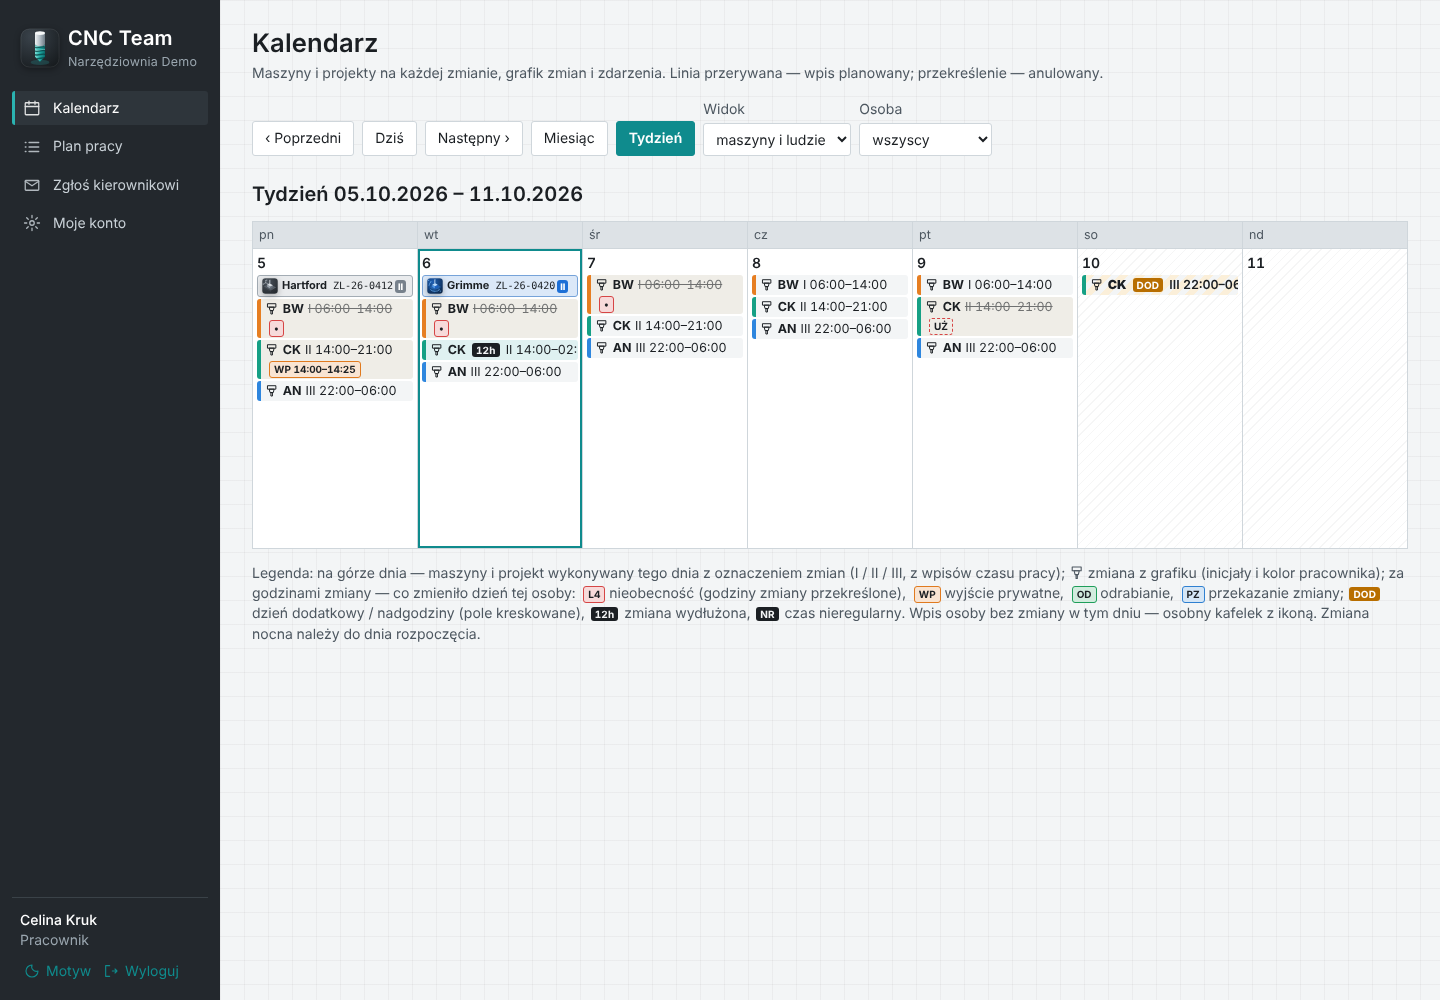
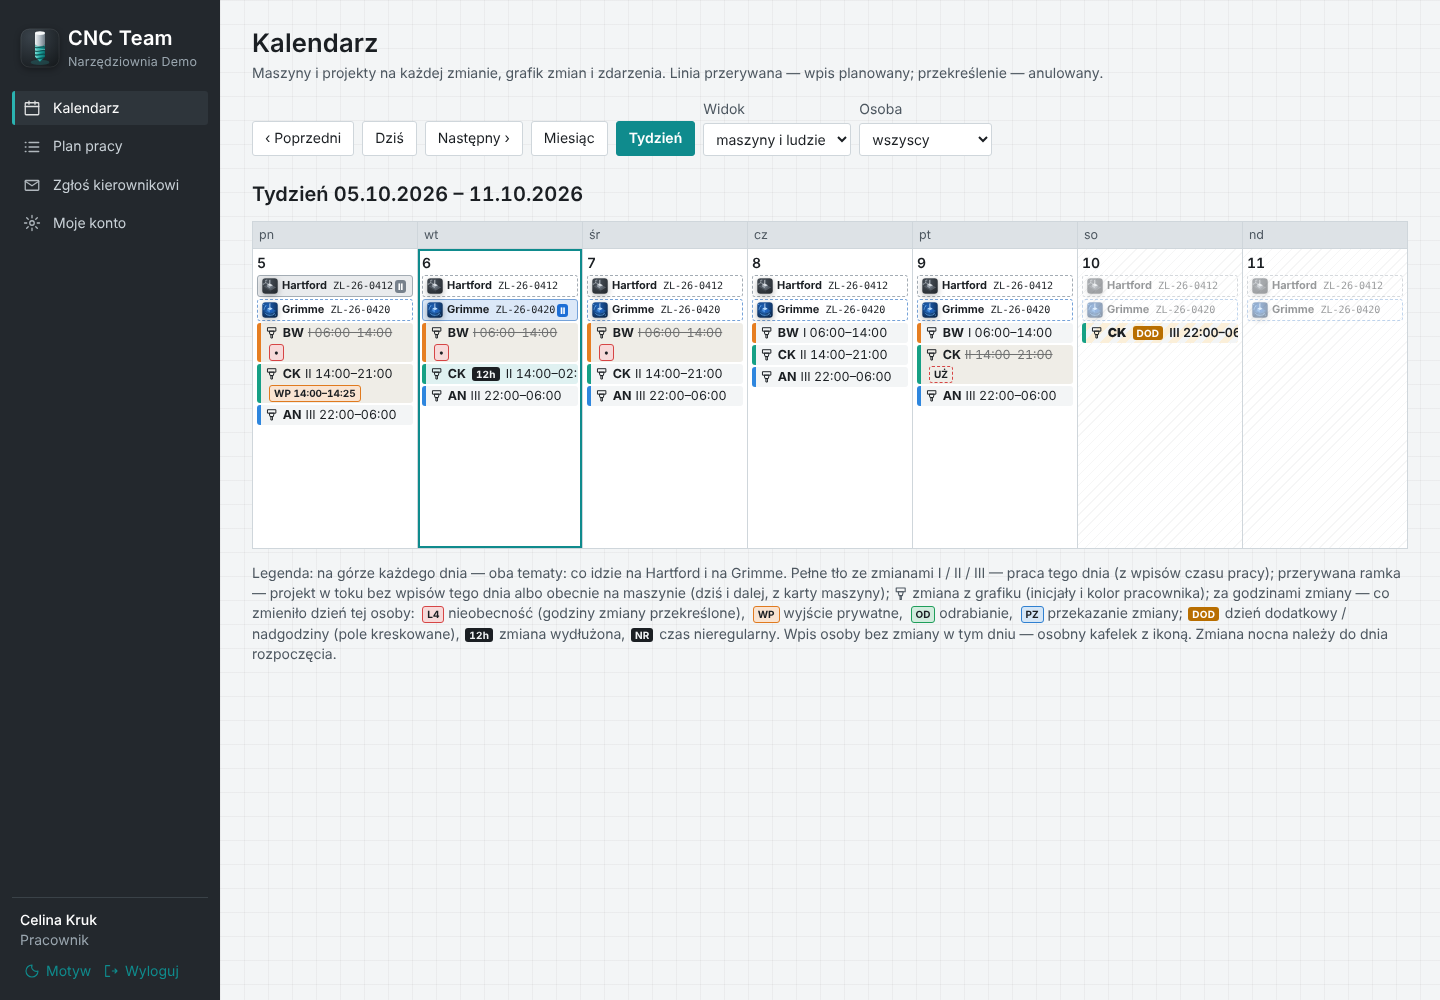
Kalendarz: w każdym dniu oba tematy — co idzie na Hartford i Grimme (praca ze zmianami / w toku / obecnie)
Claude-Session: https://claude.ai/code/session_01Mgo9RDb6yKEqWF3PSmGbbJ

Changed region(s): [[0.1562, 0.248, 0.9688, 0.434], [0.1562, 0.558, 0.9688, 0.682]]

diff --git a/public/app.js b/public/app.js
@@ -216,12 +216,12 @@ VIEWS.kalendarz = async (main) => {
   const qs = `from=${from}&to=${to}${empF ? `&employee_id=${empF}` : ''}`;
   const view = ['maszyny', 'ludzie'].includes(q.get('widok')) ? q.get('widok') : 'wszystko';
   const [sched, events, mcal] = await Promise.all([api(`/schedule?${qs}`), api(`/events?${qs}`), view !== 'ludzie' ? api(`/calendar/machines?from=${from}&to=${to}`) : Promise.resolve([])]);
-  const machineRows = (d) => S.boot.machines.map(m => {
-    const items = mcal.filter(x => x.date === d && x.machine_id === m.id);
-    if (!items.length) return '';
+  const MC_MODE = { praca: 'praca w tym dniu (wpisy czasu)', obecnie: 'obecnie na maszynie (karta maszyny)', w_toku: 'w toku — tego dnia bez wpisów czasu', brak: 'brak projektu' };
+  const machineRows = (d) => S.boot.machines.filter(m => m.active !== 0).map(m => {
+    const r = mcal.find(x => x.date === d && x.machine_id === m.id) || { mode: 'brak', items: [] };
     const th = machineTheme(m);
-    const tip = items.map(i => `${i.order_no} ${i.part_no}: ${i.shifts.map(sh => `zmiana ${sh.short} (${sh.employees.map(id => { const e = S.emp.get(id); return e ? `${e.first_name} ${e.last_name}` : ''; }).join(', ')})`).join('; ')}`).join(' | ');
-    return `<div class="mc-row theme-${th}" title="${esc(`${m.name}: ${tip}`)}">${machineEmblem(th, 16)}<b>${esc(m.name)}</b>${items.map(i => `<span class="mc-item"><span class="mono">${esc(i.order_no)}</span>${i.shifts.map(sh => `<i>${esc(sh.short)}</i>`).join('')}</span>`).join('')}</div>`;
+    const tip = r.items.length ? r.items.map(i => `${i.order_no} ${i.part_no}${i.shifts.length ? `: ${i.shifts.map(sh => `zmiana ${sh.short} (${sh.employees.map(id => { const e = S.emp.get(id); return e ? `${e.first_name} ${e.last_name}` : ''; }).join(', ')})`).join('; ')}` : ''}`).join(' | ') : '';
+    return `<div class="mc-row theme-${th} mc-${r.mode}" title="${esc(`${m.name} — ${MC_MODE[r.mode]}${tip ? `: ${tip}` : ''}`)}">${machineEmblem(th, 16)}<b>${esc(m.name)}</b>${r.items.length ? r.items.map(i => `<span class="mc-item"><span class="mono">${esc(i.order_no)}</span>${i.shifts.map(sh => `<i>${esc(sh.short)}</i>`).join('')}</span>`).join('') : '<span class="muted">—</span>'}</div>`;
   }).join('');
   const holidays = new Map(S.boot.holidays.map(h => [h.date, h.name]));
   const tpl = new Map(S.boot.shift_templates.map(t => [t.id, t]));
@@ -235,7 +235,7 @@ VIEWS.kalendarz = async (main) => {
     const daySched = sched.filter(s => s.work_date === d);
     const dayEv = events.filter(e => e.date <= d && (e.end_date || e.date) >= d);
     const off = holidays.has(d) || weekday(d) >= 6;
-    const empty = !daySched.length && !dayEv.length && !mcal.some(x => x.date === d) && !holidays.has(d) && d !== S.me.today;
+    const empty = !daySched.length && !dayEv.length && view === 'ludzie' && !holidays.has(d) && d !== S.me.today;
     cells += `<div class="day ${mode === 'miesiac' && d.slice(0, 7) !== anchor.slice(0, 7) ? 'other' : ''} ${off ? 'off' : ''} ${d === S.me.today ? 'today' : ''} ${empty ? 'empty-day' : ''}">
       <div class="num" data-dow="${DOW[weekday(d) - 1]}, ${plDate(d)}"><span class="desk-only">${Number(d.slice(8))}</span>${holidays.has(d) ? `<em>${esc(holidays.get(d))}</em>` : ''}</div>
       ${view !== 'ludzie' ? machineRows(d) : ''}
@@ -250,7 +250,7 @@ VIEWS.kalendarz = async (main) => {
      <label class="field">Osoba<select id="calEmp"><option value="">wszyscy</option>${empOptions().map(([v, l]) => `<option value="${v}" ${String(v) === empF ? 'selected' : ''}>${esc(l)}</option>`).join('')}</select></label>
      ${isAdmin() ? btn('addShift', 'Zmiana w grafiku') + btn('extraShift', 'Dzień dodatkowy / nadgodziny', 'plus', '') + btn('bulkMode', 'Zmiana trybu pracy', 'calendar', '') + btn('genShift', 'Generuj grafik', 'calendar', '') : ''}`) +
     `<h2>${esc(title)}</h2><div class="cal ${mode === 'tydzien' ? 'week' : ''}">${cells}</div>
-     <p class="small muted">Legenda: na górze dnia — maszyny i projekt wykonywany tego dnia z oznaczeniem zmian (I / II / III, z wpisów czasu pracy); ${icon('spindle')} zmiana z grafiku (inicjały i kolor pracownika); za godzinami zmiany — co zmieniło dzień tej osoby: <span class="ev-tag tone-l4">L4</span> nieobecność (godziny zmiany przekreślone), <span class="ev-tag tone-force">WP</span> wyjście prywatne, <span class="ev-tag tone-uw">OD</span> odrabianie, <span class="ev-tag tone-event">PZ</span> przekazanie zmiany; <span class="mode-badge dod">DOD</span> dzień dodatkowy / nadgodziny (pole kreskowane), <span class="mode-badge">12h</span> zmiana wydłużona, <span class="mode-badge">NR</span> czas nieregularny. Wpis osoby bez zmiany w tym dniu — osobny kafelek z ikoną. Zmiana nocna należy do dnia rozpoczęcia.</p>`;
+     <p class="small muted">Legenda: na górze każdego dnia — oba tematy: co idzie na Hartford i na Grimme. Pełne tło ze zmianami I / II / III — praca tego dnia (z wpisów czasu pracy); przerywana ramka — projekt w toku bez wpisów tego dnia albo obecnie na maszynie (dziś i dalej, z karty maszyny); ${icon('spindle')} zmiana z grafiku (inicjały i kolor pracownika); za godzinami zmiany — co zmieniło dzień tej osoby: <span class="ev-tag tone-l4">L4</span> nieobecność (godziny zmiany przekreślone), <span class="ev-tag tone-force">WP</span> wyjście prywatne, <span class="ev-tag tone-uw">OD</span> odrabianie, <span class="ev-tag tone-event">PZ</span> przekazanie zmiany; <span class="mode-badge dod">DOD</span> dzień dodatkowy / nadgodziny (pole kreskowane), <span class="mode-badge">12h</span> zmiana wydłużona, <span class="mode-badge">NR</span> czas nieregularny. Wpis osoby bez zmiany w tym dniu — osobny kafelek z ikoną. Zmiana nocna należy do dnia rozpoczęcia.</p>`;
   $('#calEmp').onchange = (e) => { location.hash = link({ osoba: e.target.value }); };
   $('#calView').onchange = (e) => { location.hash = link({ widok: e.target.value }); };
   on('addShift', () => shiftForm(anchor));

diff --git a/server/domain/projects.js b/server/domain/projects.js
@@ -401,26 +401,62 @@ function projectStart(db, id) {
     shift: s ? { name: s.name, short: s.short, start: T.utcToLocal(s.start_at).time, end: T.utcToLocal(s.end_at).time } : null };
 }
 
-// Kalendarz maszyn: który projekt był wykonywany na której maszynie danego dnia i na której zmianie (z wpisów czasu pracy i grafiku)
+// Kalendarz maszyn: w każdym dniu oba tematy — co szło na każdej maszynie.
+// praca   — wpisy czasu pracy tego dnia (projekt i zmiany I / II / III osób, które wpisały czas);
+// obecnie — dziś i dni przyszłe bez wpisów: projekt z karty maszyny (Centrum programowania);
+// w_toku  — dzień miniony bez wpisów: ostatni projekt pracowany na maszynie, jeśli nie był już zakończony.
 function machineCalendar(db, from, to) {
+  const today = T.today();
   const rows = db.all(`SELECT e.work_date d, p.machine_id, t.project_id, p.order_no, p.part_no, e.employee_id, SUM(e.active_min + e.verify_min + e.rework_min) w,
       (SELECT s.shift_template_id FROM schedule_entries s WHERE s.employee_id = e.employee_id AND s.work_date = e.work_date ORDER BY s.start_at LIMIT 1) tpl
     FROM task_time_entries e JOIN tasks t ON t.id = e.task_id JOIN projects p ON p.id = t.project_id
     WHERE e.work_date BETWEEN ? AND ? AND p.machine_id IS NOT NULL GROUP BY e.work_date, p.machine_id, t.project_id, e.employee_id ORDER BY e.work_date`, from, to);
   const tpls = new Map(db.all('SELECT id, short, start_time FROM shift_templates').map(t => [t.id, t]));
-  const out = new Map();
+  const actual = new Map();
   for (const r of rows) {
-    const key = `${r.d}|${r.machine_id}|${r.project_id}`;
-    const item = out.get(key) || { date: r.d, machine_id: r.machine_id, project_id: r.project_id, order_no: r.order_no, part_no: r.part_no, shifts: [] };
+    const key = `${r.d}|${r.machine_id}`;
+    const list = actual.get(key) || [];
+    let item = list.find(x => x.project_id === r.project_id);
+    if (!item) { item = { project_id: r.project_id, order_no: r.order_no, part_no: r.part_no, minutes: 0, shifts: [] }; list.push(item); }
     const t = tpls.get(r.tpl);
     const short = t ? t.short : 'poza grafikiem';
     let sh = item.shifts.find(x => x.short === short);
     if (!sh) { sh = { short, start: t ? t.start_time : '99', employees: [], minutes: 0 }; item.shifts.push(sh); }
     if (!sh.employees.includes(r.employee_id)) sh.employees.push(r.employee_id);
-    sh.minutes += r.w || 0;
-    out.set(key, item);
+    sh.minutes += r.w || 0; item.minutes += r.w || 0;
+    actual.set(key, list);
   }
-  return [...out.values()].map(i => ({ ...i, shifts: i.shifts.sort((a, b) => a.start.localeCompare(b.start)) }));
+  const proj = (id) => db.get('SELECT id AS project_id, order_no, part_no, status FROM projects WHERE id=?', id);
+  const finishCache = new Map();
+  const finishOf = (id) => {
+    if (!finishCache.has(id)) {
+      const p = db.get(`SELECT status, (SELECT MAX(completed_at) FROM tasks WHERE project_id = ? AND status = 'zakonczone') last FROM projects WHERE id = ?`, id, id);
+      finishCache.set(id, p && p.status === 'zakonczony' && p.last ? T.utcToLocal(p.last).date : null);
+    }
+    return finishCache.get(id);
+  };
+  const out = [];
+  for (const m of db.all('SELECT id FROM machines WHERE active=1 ORDER BY sort')) {
+    const board = db.get('SELECT project_id FROM machine_board WHERE machine_id=?', m.id);
+    const boardProj = board && board.project_id ? proj(board.project_id) : null;
+    const before = db.get(`SELECT t.project_id FROM task_time_entries e JOIN tasks t ON t.id = e.task_id JOIN projects p ON p.id = t.project_id
+      WHERE p.machine_id = ? AND e.work_date < ? ORDER BY e.work_date DESC, e.id DESC LIMIT 1`, m.id, from);
+    let last = before ? before.project_id : null;
+    for (const d of T.dateRange(from, to)) {
+      const list = actual.get(`${d}|${m.id}`);
+      if (list) {
+        for (const it of list) it.shifts.sort((a, b) => a.start.localeCompare(b.start));
+        out.push({ date: d, machine_id: m.id, mode: 'praca', items: list });
+        last = [...list].sort((a, b) => b.minutes - a.minutes)[0].project_id;
+      } else if (d >= today && boardProj) {
+        out.push({ date: d, machine_id: m.id, mode: 'obecnie', items: [{ project_id: boardProj.project_id, order_no: boardProj.order_no, part_no: boardProj.part_no, shifts: [] }] });
+      } else if (last && !(finishOf(last) && finishOf(last) < d)) {
+        const p = proj(last);
+        out.push({ date: d, machine_id: m.id, mode: 'w_toku', items: [{ project_id: p.project_id, order_no: p.order_no, part_no: p.part_no, shifts: [] }] });
+      } else out.push({ date: d, machine_id: m.id, mode: 'brak', items: [] });
+    }
+  }
+  return out;
 }
 
 function updateBoard(db, user, machineId, body) {

diff --git a/test/machine-calendar.test.js b/test/machine-calendar.test.js
@@ -1,0 +1,31 @@
+'use strict';
+// Kalendarz maszyn: w każdym dniu oba tematy — praca z wpisów czasu (ze zmianą), dzień bez wpisów = projekt w toku, dziś i dalej = projekt z karty maszyny.
+const test = require('node:test');
+const assert = require('node:assert/strict');
+const { makeWorld } = require('./helpers');
+const P = require('../server/domain/projects');
+
+test('kalendarz maszyn: praca / w toku / obecnie / brak dla obu maszyn każdego dnia', () => {
+  const w = makeWorld({ today: '2026-10-08' });
+  const e = w.emp('Jan'); w.shifts(e, '2026-10-05', '2026-10-09', 'II');
+  const tt = Object.fromEntries(w.db.all('SELECT id, code FROM task_types').map(t => [t.code, t.id]));
+  const ph = P.saveProject(w.db, w.admin, { order_no: 'ZL-H', part_no: 'D', part_rev: 'A', machine_id: 'M-HARTFORD' });
+  const t = P.createTask(w.db, w.admin, { project_id: ph, type_id: tt.NX, title: 'NX' });
+  const pg = P.saveProject(w.db, w.admin, { order_no: 'ZL-G', part_no: 'D', part_rev: 'A', machine_id: 'M-GRIMME' });
+  P.updateBoard(w.db, w.admin, 'M-GRIMME', { project_id: pg });
+  P.addTimeEntry(w.db, w.admin, { task_id: t, employee_id: e, work_date: '2026-10-05', active_min: 120 });
+  const cal = P.machineCalendar(w.db, '2026-10-04', '2026-10-09');
+  const at = (d, m) => cal.find(x => x.date === d && x.machine_id === m);
+  assert.equal(cal.length, 12, 'każdego dnia obie maszyny');
+  assert.equal(at('2026-10-04', 'M-HARTFORD').mode, 'brak');
+  const h5 = at('2026-10-05', 'M-HARTFORD');
+  assert.equal(h5.mode, 'praca'); assert.equal(h5.items[0].order_no, 'ZL-H'); assert.deepEqual(h5.items[0].shifts.map(s => s.short), ['II']);
+  assert.equal(at('2026-10-06', 'M-HARTFORD').mode, 'w_toku');
+  assert.equal(at('2026-10-06', 'M-GRIMME').mode, 'brak', 'przeszłość bez wpisów i bez historii');
+  assert.equal(at('2026-10-08', 'M-GRIMME').mode, 'obecnie'); assert.equal(at('2026-10-09', 'M-GRIMME').items[0].order_no, 'ZL-G');
+  // projekt zakończony nie jest pokazywany jako „w toku” po dniu zakończenia
+  P.updateTask(w.db, w.admin, t, { status: 'zakonczone', result_confirmation: 'ok' });
+  P.saveProject(w.db, w.admin, { ...w.db.get('SELECT * FROM projects WHERE id=?', ph), status: 'zakonczony' }, ph);
+  w.db.run(`UPDATE tasks SET completed_at='2026-10-05T12:00:00Z' WHERE id=?`, t);
+  assert.equal(P.machineCalendar(w.db, '2026-10-06', '2026-10-06').find(x => x.machine_id === 'M-HARTFORD').mode, 'brak');
+});

diff --git a/public/sw.js b/public/sw.js
@@ -2,7 +2,7 @@
 // Zasada prywatności: w pamięci telefonu przechowywany jest WYŁĄCZNIE szkielet aplikacji (HTML/CSS/JS/ikony).
 // Odpowiedzi API (/api/*) — dane osobowe, absencje, rozliczenia — nigdy nie są buforowane.
 'use strict';
-const VERSION = 'cnc-team-shell-v18';
+const VERSION = 'cnc-team-shell-v19';
 const SHELL = [
   '/', '/index.html', '/tokens.css', '/app.css', '/icons.js', '/brand.js', '/charts.js', '/ui.js', '/app.js', '/views-people.js', '/views-projects.js',
   '/views-reports.js', '/views-requests.js', '/views-analytics.js', '/views-bundles.js', '/views-plan.js', '/pwa.js', '/manifest.webmanifest', '/favicon.svg', '/icons/icon-192.png', '/icons/icon-512.png',

diff --git a/server/routes.js b/server/routes.js
@@ -430,7 +430,8 @@ function buildRoutes() {
     T.assertDate(from); T.assertDate(to);
     if (T.dateRange(from, to).length > 62) throw bad('Zakres do 62 dni.');
     // programista widzi temat i zmianę, bez godzin pracy
-    return P.machineCalendar(db, from, to).map(i => user.role === 'employee' ? { ...i, shifts: i.shifts.map(({ minutes, ...x }) => x) } : i);
+    return P.machineCalendar(db, from, to).map(r => (user.role === 'employee'
+      ? { ...r, items: r.items.map(({ minutes, ...it }) => ({ ...it, shifts: it.shifts.map(({ minutes: _m, ...x }) => x) })) } : r));
   });
   add('GET', '/today', ({ db, user }) => {
     const d = T.today();

diff --git a/public/app.css b/public/app.css
@@ -541,3 +541,7 @@ p .mode-badge { display: inline-block; margin: 0 2px; }
 .mc-row b { font-weight: 700; margin-right: 2px; }
 .mc-item { display: inline-flex; align-items: center; gap: 2px; }
 .mc-item i { font-style: normal; font-size: 9px; font-weight: 800; padding: 0 3px; border-radius: 3px; background: var(--m-mid, #8a949e); color: #fff; }
+
+.mc-row.mc-obecnie, .mc-row.mc-w_toku { background: transparent; border-style: dashed; }
+.mc-row.mc-brak { background: transparent; border-style: dotted; opacity: .6; }
+.cal .day.off .mc-row:not(.mc-praca) { opacity: .45; }

diff --git a/docs/RULES.md b/docs/RULES.md
@@ -83,7 +83,7 @@ Dwa paski: przygotowanie programu i wykonanie detalu = Σ wag zakończonych zada
 
 ### Centrum programowania i kalendarz maszyn
 - Centrum programowania: obie maszyny (karta jak dotąd), pod każdą — aktualnie obrabiany projekt z kartą jak w „Projekty i zadania” (postęp, godziny, wynik, opóźnienie) i informacją, **kiedy i na której zmianie projekt się zaczął**: pierwszy wpis czasu pracy — dzień, osoba i jej zmiana z grafiku (gdy brak wpisów — data rozpoczęcia z projektu, oznaczona). Pod spodem pozostałe informacje.
-- Kalendarz: na górze każdego dnia maszyny i projekty wykonywane tego dnia z oznaczeniem zmian (I / II / III — zmiana osoby, która wpisała czas na projekt; „poza grafikiem”, gdy nie miała zmiany). Źródło: wpisy czasu pracy. Widok: maszyny i ludzie / tylko maszyny / tylko ludzie.
+- Kalendarz: na górze **każdego dnia oba tematy** — co idzie na Hartford i na Grimme. *Praca* (pełne tło): wpisy czasu pracy tego dnia z oznaczeniem zmian (I / II / III — zmiana osoby, która wpisała czas; „poza grafikiem”, gdy nie miała zmiany). *W toku* (przerywana ramka): dzień miniony bez wpisów — ostatni projekt pracowany na maszynie, jeśli nie był już zakończony. *Obecnie* (przerywana ramka): dziś i dni przyszłe bez wpisów — projekt z karty maszyny. „—” gdy na maszynie nic nie było. Widok: maszyny i ludzie / tylko maszyny / tylko ludzie.
 
 ### Zestawienia do druku (Analiza i raporty → Zestawienia do druku)
 - Kierownik łączy kilka tematów: projekty (status, opóźnienie w %, termin, godziny wobec planu, poprawki, powroty), zapisane raporty (kluczowe liczby i komentarz) i własne tematy — do każdego przyczyna (lista przyczyn jak przy czasie pracy) i notatka, np. dlaczego było opóźnienie. Kolejność tematów dowolna.

diff --git a/docs/TESTS.md b/docs/TESTS.md
@@ -58,6 +58,9 @@ Zrzuty: `docs/screenshots/50…66` (kierownik, pracownik na komputerze i telefon
 ### Runda 13 — nowa organizacja (9.10.2026)
 **54 / 54 zaliczonych.** Zmienione testy dostępu: programista dostaje 403 na projekty, pracowników, tablicę maszyn, przekazania, Centrum programowania, wyjścia, nieobecności; 200 na grafik, zdarzenia (ogólne etykiety), kalendarz maszyn, własne polecenia, zgłoszenia i własne saldo. Skrypt zrzutów sprawdza, że programistka nie otworzy innych widoków (przekierowanie do planu pracy) i nie ma ich w menu. Zrzuty: Centrum programowania z projektami pod maszynami (`56`), kalendarz z maszynami (`76`, `77`, `99`), lista zdarzeń w Pracownikach (`100`).
 
+### Runda 14 — oba tematy w każdym dniu kalendarza (9.10.2026)
+**55 / 55 zaliczonych.** Nowy `test/machine-calendar.test.js`: każdego dnia obie maszyny; praca ze zmianą z wpisów, dzień bez wpisów = w toku, dziś i dalej = projekt z karty maszyny, brak przed pierwszą pracą i po zakończeniu projektu.
+
 ## Pokrycie wymaganych scenariuszy
 
 | Wymagany scenariusz | Test (plik → nazwa) |
